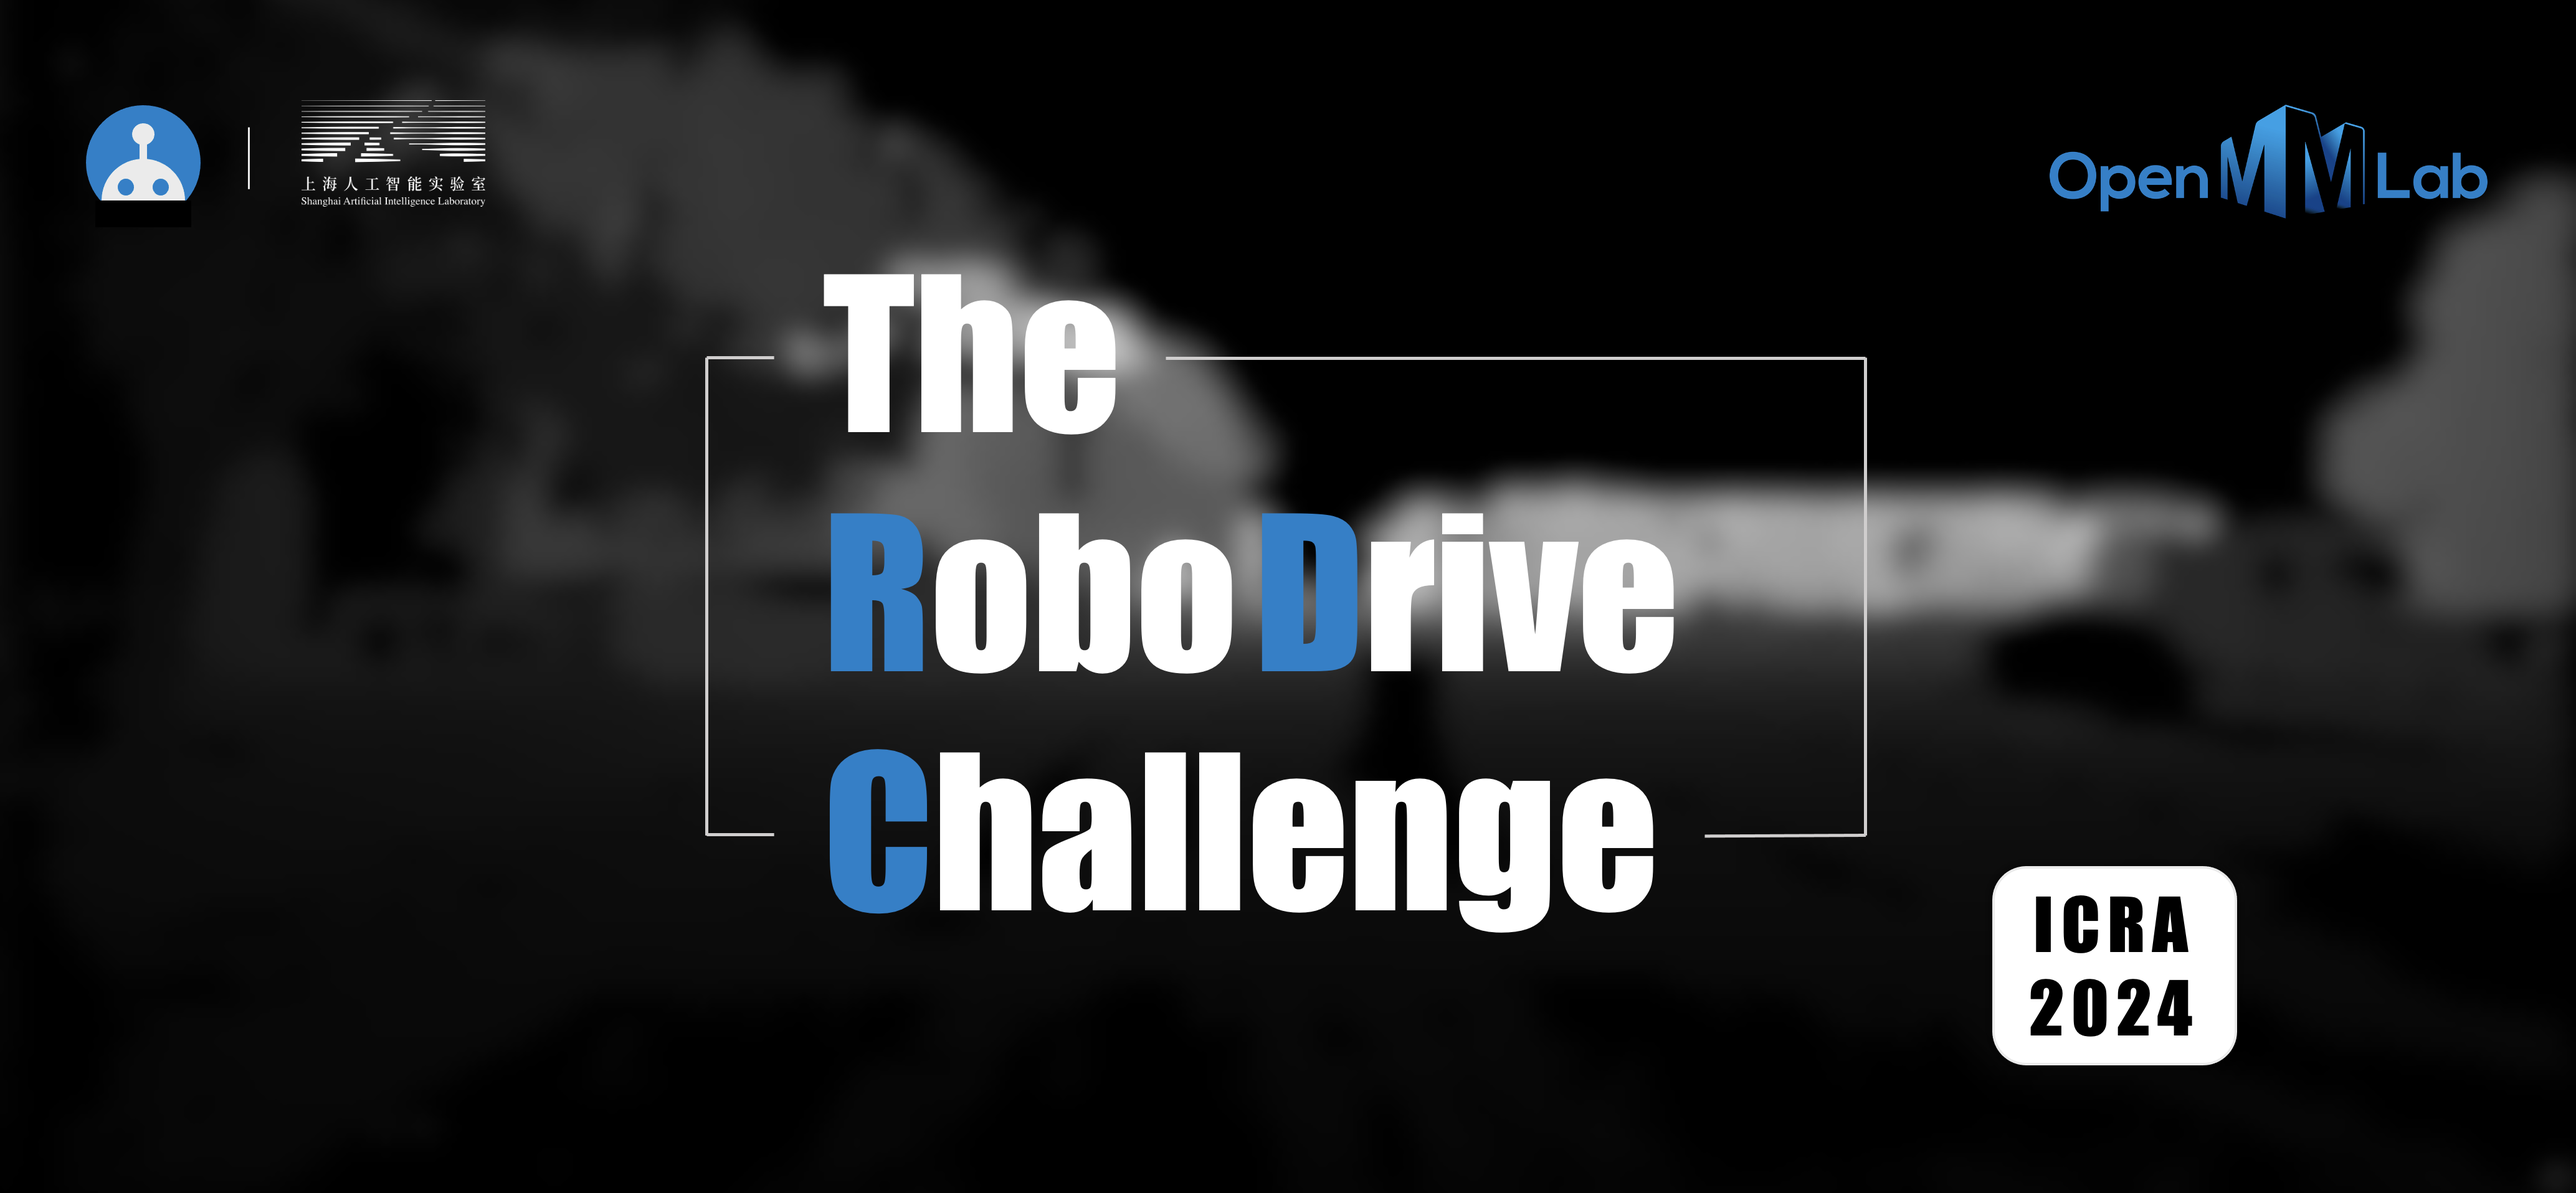
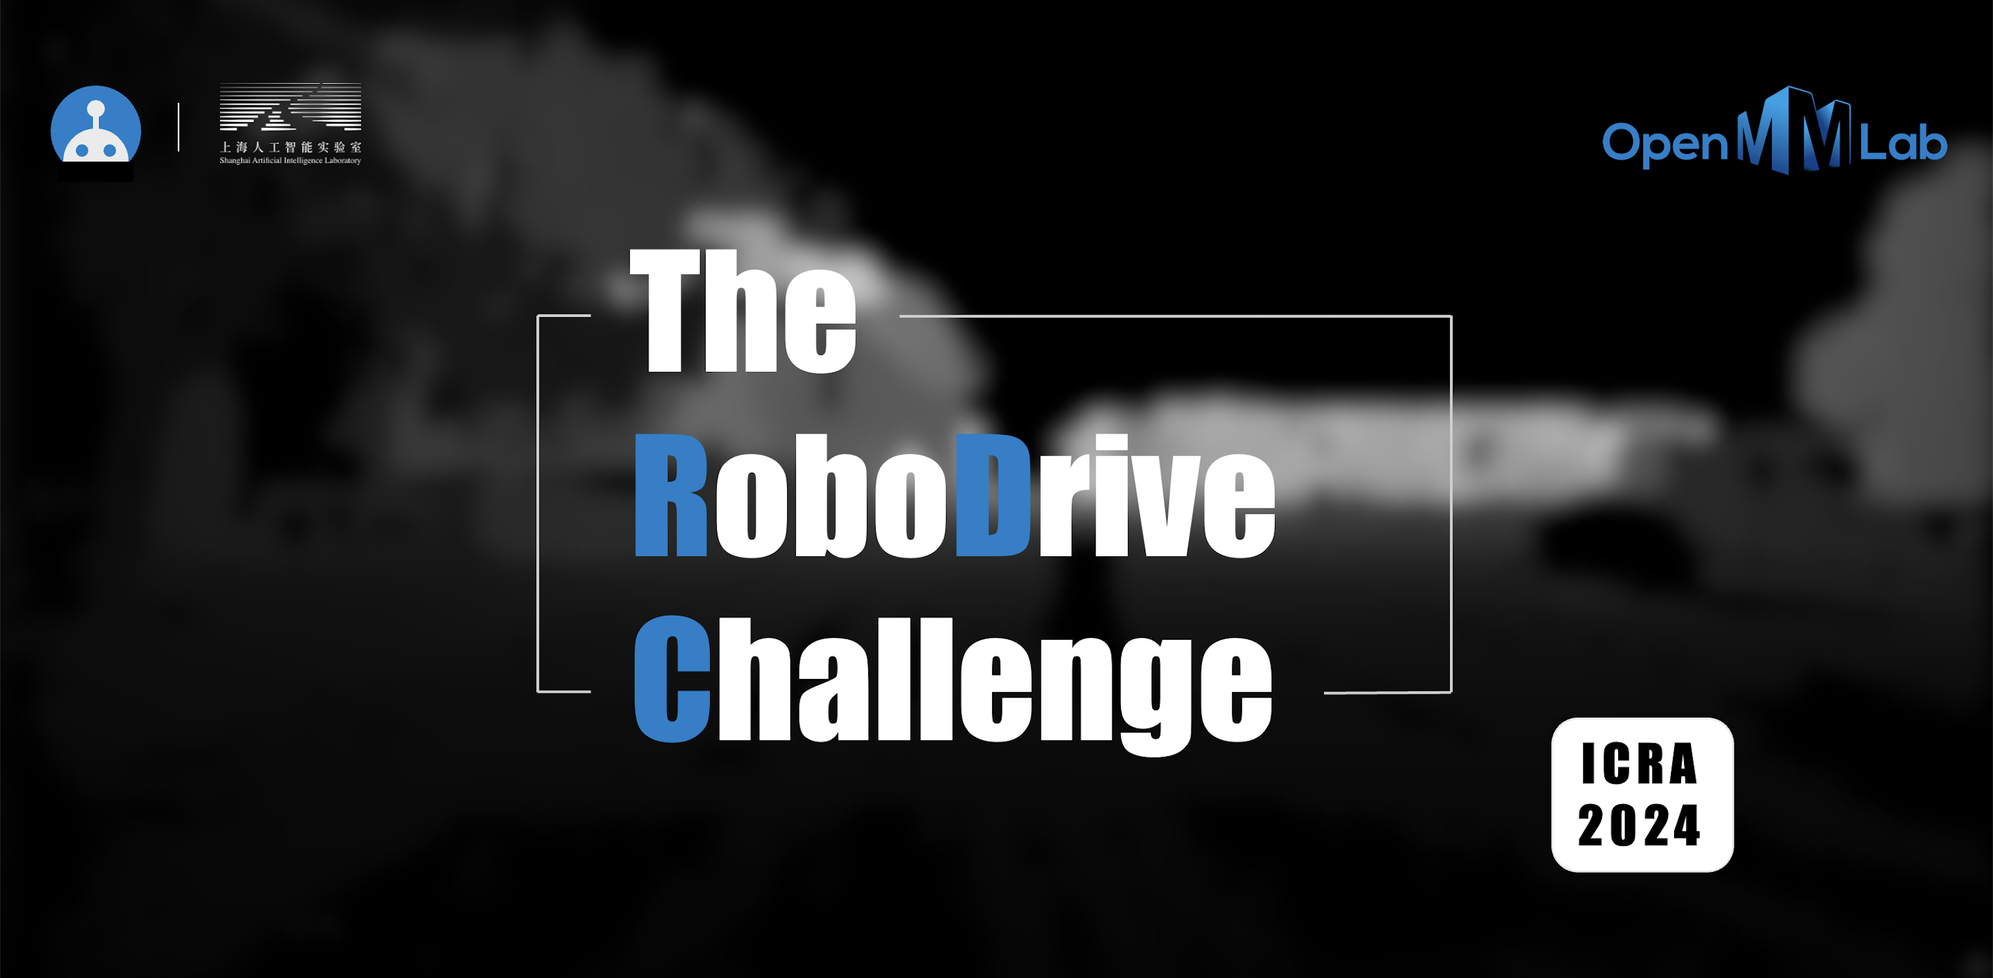
Add files via upload

diff --git a/index.html b/index.html
@@ -1,16 +1,8 @@
 <!DOCTYPE html>
 
-<!-- seasondepth@GPU1:~/SeasonDepth_Challenge/index$ sudo jekyll s build --port 80 --host 128.237.67.127 -->
-
 <html lang="en">
 
 <head>
-    <!-- Don't forget to modify directory back:
-        hint:paste the following prefix under people
-    ${APP_PATH}/static/people-image/-->
-    <!-- <%
-        pageContext.setAttribute("APP_PATH", ".");
-    %> -->
     <title>RoboDrive Challenge</title>
 
     <link href="https://cdn.jsdelivr.net/npm/bootstrap@5.1.3/dist/css/bootstrap.min.css" rel="stylesheet" integrity="sha384-1BmE4kWBq78iYhFldvKuhfTAU6auU8tT94WrHftjDbrCEXSU1oBoqyl2QvZ6jIW3" crossorigin="anonymous">
@@ -46,14 +38,14 @@
         }
         
         .modal-content {
-            border: 2px solid rgb(255, 187, 0);
+            border: 2px solid rgb(0, 128, 204);
             background-color: rgb(0, 0, 0);
             border-radius: 15px;
         }
         
         .modal-header {
-            background-color: rgb(255, 187, 0);
-            border: 2px solid rgb(255, 187, 0);
+            background-color: rgb(0, 128, 204);
+            border: 2px solid rgb(0, 128, 204);
             border-top-left-radius: 10px;
             border-top-right-radius: 10px;
         }
@@ -80,7 +72,7 @@
             left: 50%;
             transform: translate(-50%, -50%);
             -ms-transform: translate(-50%, -50%);
-            background-color: rgb(255, 187, 0);
+            background-color: rgb(0, 128, 204);
             color: white;
             font-size: 20px;
             padding: 18px 280px;
@@ -253,7 +245,7 @@
             </div>
         </header>
         <div class="container1">
-            <a href="http://research.baidu.com/" target="_blank"><img1><img src="cover.png" class="img-fluid" alt="img-responsive"></img1></a>
+            <a href="https://www.shlab.org.cn/" target="_blank"><img1><img src="cover.png" class="img-fluid" alt="img-responsive"></img1></a>
         </div>
         <div class="container p-4 anchor">
             <h1 class="text-white" id="introduction">Introduction</h1>
@@ -264,6 +256,10 @@
                 Common corruptions, however, tend to happen in practical scenarios, which is safety-critical for applications like autonomous driving and robot navigation. 
                 To raise attention among the community to robust depth estimation, we propose the <strong>RoboDepth</strong> challenge.
             </p>
+
+            <img1><img src="static/people-image/teaser.png" class="img-fluid" alt="img-responsive"></img1>
+
+
             <p class="text-white-50">
                 Our RoboDepth is the very first benchmark that targets probing the OoD robustness of depth estimation models under common corruptions. 
                 There are 18 corruption types in total, ranging from three perspectives: 
@@ -296,7 +292,7 @@
                 <div class="col">
                     <div class="card rounded-3 shadow-sm">
                         <div class="card-header py-3 bg-warning">
-                            <h4 class="my-0 fw-normal text-black">Track 1&nbsp;</h4>
+                            <h4 class="my-0 fw-normal text-black">Track 1</h4>
                         </div>
                         <div class="card-body bg-black">
                             <h3>Robust BEV Detection Track</h3>
@@ -323,6 +319,36 @@
                         </div>
                     </div>
                 </div>
+                <div class="col">
+                    <div class="card rounded-3 shadow-sm">
+                        <div class="card-header py-3 bg-warning">
+                            <h4 class="my-0 fw-normal text-black">Track 3</h4>
+                        </div>
+                        <div class="card-body bg-black">
+                            <h3>Robust Map Segmentation Track</h3>
+
+                            <ul class="list-unstyled mt-3 mb-4">
+                                <li>Only monocular sequences are used for model training without the supervision of depth maps</li>
+                            </ul>
+                            <a href="https://codalab.lisn.upsaclay.fr/competitions/9418"><button type="button" class="w-100 btn btn-lg btn-outline-warning disabled">Evaluation Server 3</button></a>
+                        </div>
+                    </div>
+                </div>
+                <div class="col">
+                    <div class="card mb-4 rounded-3 shadow-sm">
+                        <div class="card-header py-3 bg-warning">
+                            <h4 class="my-0 fw-normal text-black">Track 4</h4>
+                        </div>
+                        <div class="card-body bg-black">
+                            <h3>Robust Occupancy Prediction Track</h3>
+                            <ul class="list-unstyled mt-3 mb-4">
+                                <li> The participants can make full use of all depth maps released to train the model</li>
+                            </ul>
+
+                            <a href="https://codalab.lisn.upsaclay.fr/competitions/9821"><button type="button" class="w-100 btn btn-lg btn-outline-warning disabled">Evaluation Server 4</button></a>
+                        </div>
+                    </div>
+                </div>
             </div>
 
 
@@ -343,9 +369,12 @@
             
             <h1 class="text-white" id="awards">Awards</h1>
             <hr>
+            <p class="text-white-50">
+                To be announced.
+            </p>
 
             <!-- <p class="text-white-50">The awards might be able to increase to $3000 if the performance improvement is exceptional and significant.</p> -->
-            <div class="row row-cols-1 row-cols-md-2 mb-3 text-center align-content-center text-white">
+            <!-- <div class="row row-cols-1 row-cols-md-2 mb-3 text-center align-content-center text-white">
                 <div class="col">
                     <div class="card rounded-3 shadow-sm">
                         <div class="card-header py-3 bg-warning">
@@ -358,7 +387,6 @@
                                 <li>2nd prize: $ 300</li>
                                 <li>3rd prize: $ 200</li>
                             </ul>
-                            <!-- <button type="button" class="w-100 btn btn-lg btn-outline-warning"  onclick="myFunction()">Get started</button> -->
                         </div>
                     </div>
                 </div>
@@ -374,11 +402,10 @@
                                 <li>2nd prize: $ 300</li>
                                 <li>3rd prize: $ 200</li>
                             </ul>
-                            <!-- <button type="button" class="w-100 btn btn-lg btn-warning" onclick="myFunction()">Get started</button> -->
                         </div>
                     </div>
                 </div>
-            </div>
+            </div> -->
 
 
             <br><br>
@@ -426,28 +453,28 @@
                 <!-- Three columns of text below the carousel -->
                 <div class="row">
 
-                    <div class="col"> <img src="static/people-image/lingdong.jpg" class="rounded-circle" width="135">
+                    <div class="col"> <img src="static/people-image/lingdong.jpg" class="rounded-circle" width="138">
                         <h4>Lingdong Kong</h4>
                         <p>
                             <small>NUS Computing</small>
                         </p>
                     </div>
 
-                    <div class="col"> <img src="static/people-image/shaoyuan.jpeg" class="rounded-circle" width="135">
+                    <div class="col"> <img src="static/people-image/shaoyuan.jpeg" class="rounded-circle" width="138">
                         <h4>Shaoyuan Xie</h4>
                         <p>
                             <small>UC, Irvine</small>
                         </p>
                     </div>
 
-                    <div class="col"> <img src="static/people-image/hanjiang.png" class="rounded-circle" width="135">
+                    <div class="col"> <img src="static/people-image/hanjiang.png" class="rounded-circle" width="138">
                         <h4>Hanjiang Hu</h4>
                         <p>
                             <small>Carnegie Mellon</small>
                         </p>
                     </div>
 
-                    <div class="col"> <img src="static/people-image/yaru.jpeg" class="rounded-circle" width="135">
+                    <div class="col"> <img src="static/people-image/yaru.jpeg" class="rounded-circle" width="138">
                         <h4>Yaru Niu</a></h4>
                         <p>
                             <small>Carnegie Mellon</small>
@@ -464,24 +491,24 @@
                 <!-- Three columns of text below the carousel -->
                 <div class="row">
                     <!-- /.col-lg-4 -->
-                    <div class="col"> <img src="static/people-image/weitsang.jpeg" class="rounded-circle" width="135">
+                    <div class="col"> <img src="static/people-image/weitsang.jpeg" class="rounded-circle" width="138">
                         <h4>Wei Tsang Ooi</a></h4>
                         <p><small>NUS Computing</small></p>
                     </div>
 
-                    <div class="col"> <img src="static/people-image/benoit.png" class="rounded-circle" width="135">
+                    <div class="col"> <img src="static/people-image/benoit.png" class="rounded-circle" width="138">
                         <h4>Benoit Cottereau</h4>
                         <p><small>CNRS & IPAL</small></p>
                     </div>
 
-                    <div class="col"> <img src="static/people-image/laixing.jpeg" class="rounded-circle" width="135">
+                    <div class="col"> <img src="static/people-image/laixing.jpeg" class="rounded-circle" width="138">
                         <h4>Lai Xing Ng</a></h4>
                         <p>
                             <small>A*STAR, I2R</small>
                         </p>
                     </div>
 
-                    <div class="col"> <img src="static/people-image/yuexin.jpeg" class="rounded-circle" width="135">
+                    <div class="col"> <img src="static/people-image/yuexin.jpeg" class="rounded-circle" width="138">
                         <h4>Yuexin Ma</a></h4>
                         <p>
                             <small>Shanghai Tech</small>
@@ -499,22 +526,22 @@
                 <div class="row">
                     <!-- /.col-lg-4 -->
 
-                    <div class="col"> <img src="static/people-image/wenwei.png" class="rounded-circle" width="135">
+                    <div class="col"> <img src="static/people-image/wenwei.png" class="rounded-circle" width="138">
                         <h4>Wenwei Zhang</h4>
                         <p><small>Shanghai AI Lab</small></p>
                     </div>
 
-                    <div class="col"> <img src="static/people-image/liang_pan.jpeg" class="rounded-circle" width="135">
+                    <div class="col"> <img src="static/people-image/liang_pan.jpeg" class="rounded-circle" width="138">
                         <h4>Liang Pan</h4>
                         <p><small>Shanghai AI Lab</small></p>
                     </div>
 
-                    <div class="col"> <img src="static/people-image/kai_chen.jpeg" class="rounded-circle" width="135">
+                    <div class="col"> <img src="static/people-image/kai_chen.jpeg" class="rounded-circle" width="138">
                         <h4>Kai Chen</h4>
                         <p><small>Shanghai AI Lab</small></p>
                     </div>
 
-                    <div class="col"> <img src="static/people-image/ziwei.png" class="rounded-circle" width="135">
+                    <div class="col"> <img src="static/people-image/ziwei.png" class="rounded-circle" width="138">
                         <h4>Ziwei Liu</a></h4>
                         <p><small>NTU, S-Lab</p>
                     </div>

diff --git a/styles.css b/styles.css
@@ -40,7 +40,7 @@ a1 {
 
 a1:hover {
     color: white;
-    background: #FFA500;
+    background: #029bf4;
 }
 
 strong {
@@ -64,7 +64,7 @@ h1 {
 /* Timeline */
 
 .timeline {
-    border-left: 4px solid #FFA500;
+    border-left: 4px solid #029bf4;
     border-bottom-right-radius: 4px;
     border-top-right-radius: 4px;
     background: rgba(255, 255, 255, 0.03);
@@ -119,7 +119,7 @@ h1 {
 
 .timeline .event:before {
     left: -217.5px;
-    color: #FFA500;
+    color: #029bf4;
     content: attr(data-date);
     text-align: right;
     font-weight: 100;
@@ -129,7 +129,7 @@ h1 {
 }
 
 .timeline .event:after {
-    box-shadow: 0 0 0 4px #ffa500;
+    box-shadow: 0 0 0 4px #029bf4;
     left: -57.85px;
     background: #313534;
     border-radius: 50%;

diff --git a/styles.less b/styles.less
@@ -7,7 +7,7 @@
 
 @background: #252827;
 
-@color-primary: #FFA500;
+@color-primary: #029bf4;
 @color-light: white;
 @color-dim: white;
 @spacing: 50px;
@@ -132,8 +132,8 @@ h1 {
       color: @color-primary;
       content: attr(data-date);
       text-align: right;
-      font-weight: 100;    
-      font-size: 0.9em;
+      font-weight: 200;    
+      font-size: 1.05em;
       min-width: @date;
       font-family: @font-title;
     }
